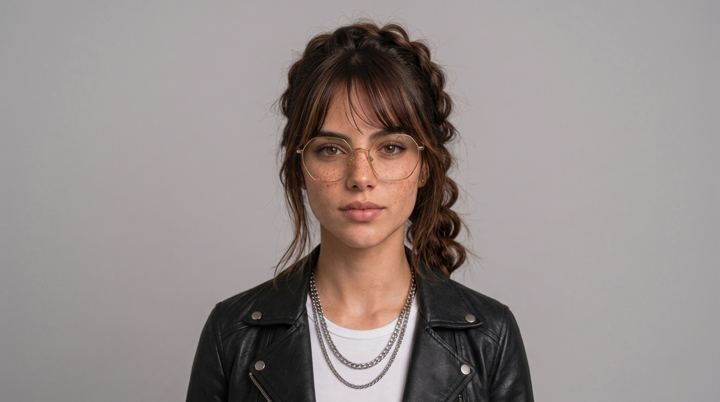
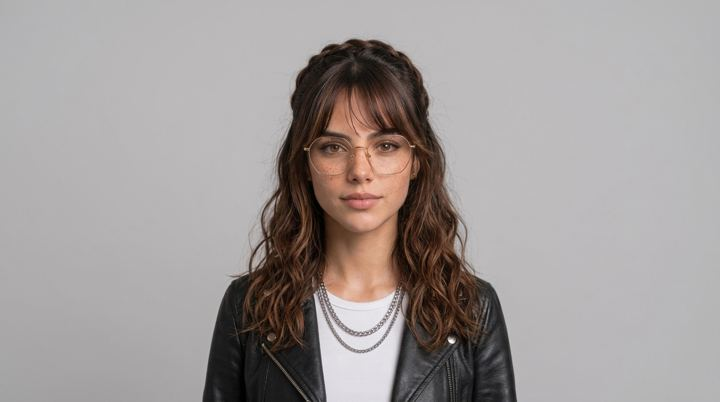
Peinados: 4 fotos más y correcciones de emparejado
Claude-Session: https://claude.ai/code/session_01U3tn6CXx4r3b7hTEXfh5Xv

diff --git a/index.html b/index.html
@@ -1592,6 +1592,7 @@ function seedCatalog(s) {
   }
   for (const [lib, ck] of [['encuadres','encuadres'],['camara','camara'],['luz','luz']]) { const fl = 'seed2_' + lib; if (s[fl]) continue; const have = new Set(s.libs[lib].map(x => x.id)); for (const it of CAT[ck] || []) if (!have.has(it.id)) s.libs[lib].push({ id: it.id, name: it.name, cat: it.cat, tags: it.tags || [], desc: it.desc, img: '', cat0: 1 }); s[fl] = 1; }
   if (!s.peinImgV) { const PI = new Set(["melena-midi-en-capas", "melena-xxl-extra-larga-lisa", "recogido-romantico-de-novia", "trenza-halo-de-diadema", "flequillo-baby-con-melena-lisa", "hime-cut-japones", "media-cola-con-mini-mono", "ondas-sirena-crimpadas", "finger-waves-con-gel", "corte-bixie", "rizos-pin-up-con-panuelo", "mullet-moderno", "buzz-cut-femenino", "ondas-wet-look-sueltas", "coleta-alta-con-trenzas-pegadas", "coleta-burbuja", "recogido-con-pinza-italiana", "recogido-colmena-anos-60", "gibson-tuck-vintage", "trenza-corazon", "mono-trenzado-alto", "locs-largas", "recogido-griego-con-diadema", "coleta-baja-pulida-con-raya-al-medio", "trenzas-fulani-con-cuentas", "coleta-alta-lisa-perfecta", "trenza-infinito-sin-fin", "ondas-marcadas-con-plancha", "mono-bajo-liso-elegante", "media-coleta-trenzada", "rizos-voluminosos-estilo-80s", "long-bob-ondulado-lob", "pixie-con-undercut-lateral", "bob-frances-con-flequillo-cortina", "coleta-lateral-baja", "ondas-90s-supermodelo", "raya-en-zigzag-con-melena-suelta", "coleta-alta-rizada", "wolf-cut", "mono-en-ocho", "trenza-boho-con-cuentas", "recogido-torcido-bajo", "rizos-en-tirabuzon", "bob-asimetrico", "coleta-baja-con-lazo", "coleta-alta-con-volumen-en-la-raiz", "recogido-bajo-con-trenza-envolvente", "trenza-escalera", "mono-frances-clasico", "mono-alto-despeinado-con-palillos", "trenza-de-cascada", "ondas-suaves-con-raya-lateral", "flequillo-recto-con-melena-lisa", "ondas-old-hollywood", "corte-shag-texturizado-con-flequillo", "coletas-altas-dobles", "diadema-de-perlas-con-melena-suelta", "trenzas-de-caja", "cornrows-rectas-hacia-atras", "bob-clasico-a-la-barbilla", "bantu-knots", "pelo-mojado-slicked-back", "pixie-corto", "corona-de-trenzas", "trenzas-twist-senegalesas", "ondas-vintage-anos-40", "mono-alto-bailarina", "recogido-con-panuelo", "melena-rizada-afro-natural", "trenza-holandesa-doble", "rizos-definidos", "mono-bajo-despeinado", "ondas-playeras", "blowout-voluminoso", "coletas-bajas-dobles", "flequillo-cortina-con-melena-suelta", "trenza-de-espiga", "trenzas-boxeadora-en-mono", "media-cola-alta-con-volumen", "melena-lisa-con-raya-al-medio", "space-buns", "trenza-francesa-lateral", "crew-cut-militar", "corte-cesar"]); for (const p of s.libs.peinados || []) if (!p.img && PI.has(p.id)) p.img = 'img/peinados/' + p.id + '.jpg'; s.peinImgV = 1; } // fotos de los peinados (las que hizo Dani), puestas en su ficha una vez
+  if (!(s.peinImgV >= 2)) { for (const p of s.libs.peinados || []) { if (p.img === 'img/peinados/rizos-definidos.jpg') p.img = ''; else if (!p.img && ['fade-alto-con-tupe','coleta-envuelta','coleta-trenzada','trenza-pull-through'].includes(p.id)) p.img = 'img/peinados/' + p.id + '.jpg'; } s.peinImgV = 2; } // corrección de fotos de peinados
   if (!s.posesV) { const have = new Set(s.libs.poses.map(x => x.id)); for (const it of CAT.poses || []) if (!have.has(it.id)) s.libs.poses.push({ id: it.id, name: it.name, cat: it.cat, tags: it.tags || [], desc: it.desc, img: '', cat0: 1 }); s.posesV = 1; }
 }
 /* arranque: si lo guardado está dañado no se pisa; la app entra en modo recuperación y no guarda nada hasta que decidas */

diff --git a/sw.js b/sw.js
@@ -1,5 +1,5 @@
 // Saga Studio · siempre la última versión si hay conexión; sin conexión (o si la red tarda demasiado), la copia guardada.
-const C = 'saga-v32';
+const C = 'saga-v33';
 const KEEP = ['saga-auth', 'saga-media']; // permiso de Drive de la cuenta activa y fotos ya vistas de tu Drive
 const SHELL = ['./', './index.html', './manifest.webmanifest', './icon.svg', './icon-192.png', './icon-512.png', './apple-touch-icon.png', './catalog/families.v1.json', './catalog/pollo.v1.json', './catalog/fal.v1.json', './catalog/higgsfield.v1.json'];
 const SLOW = 3500; // ms que se espera a la red antes de abrir con la copia guardada
